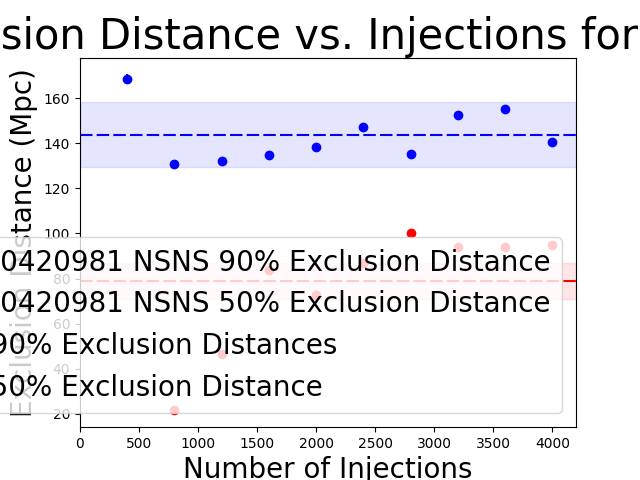
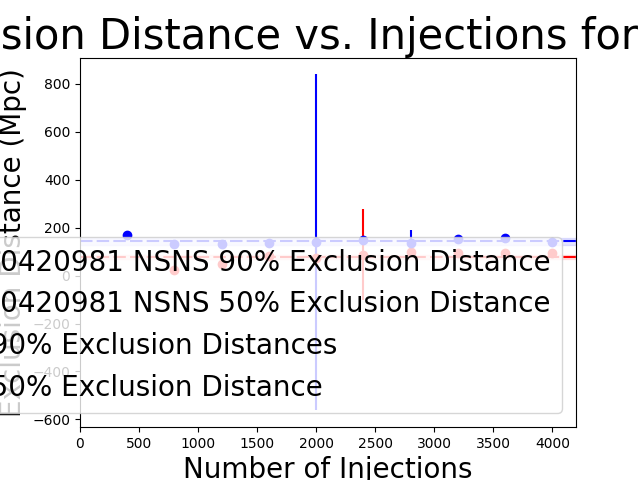
p/100 was rounding to 0 as an integer, needed to cast 100. as float

diff --git a/injectionPlot.py b/injectionPlot.py
@@ -95,7 +95,7 @@ nsbhPrecessInj = 12500
 
 ################ Plotting #################
 nsns_90_mean = [np.mean(inj100NSNS_90), np.mean(inj90NSNS_90), np.mean(inj80NSNS_90), np.mean(inj70NSNS_90), np.mean(inj60NSNS_90), np.mean(inj50NSNS_90), np.mean(inj40NSNS_90), np.mean(inj30NSNS_90), np.mean(inj20NSNS_90)]
-nsns_90_std = [11.063479404361873, 3.700565758284695, 3.6692927735743956, 13.8125677717, 188.954886992, 51.8242101276, 6.34528534050268, 5.865938840354687, 10.64974986085202, 5.152951845238655]
+nsns_90_std = [11.063479404361873, 3.700565758284695, 3.6692927735743956, 13.8125677717, 188.954886992, 51.8242101276, 6.34528534050268, 5.865938840354687, 10.64974986085202]
 nsnsNumInj_90 = [1*nsnsInj, 0.9*nsnsInj, 0.8*nsnsInj, 0.7*nsnsInj, 0.6*nsnsInj, 0.5*nsnsInj, 0.4*nsnsInj, 0.3*nsnsInj, 0.2*nsnsInj]
 nsns_50_mean = [np.mean(inj100NSNS_50), np.mean(inj90NSNS_50), np.mean(inj80NSNS_50), np.mean(inj70NSNS_50), np.mean(inj60NSNS_50), np.mean(inj50NSNS_50), np.mean(inj40NSNS_50), np.mean(inj30NSNS_50), np.mean(inj20NSNS_50), np.mean(inj10NSNS_50)]
 nsns_50_std = [6.738043973967401, 4.711676157772397, 5.301722593946216, 54.085612975, 16.0578825548, 700.81749628, 4.829679075135576, 4.176415388028511, 5.89478930396605, 3.341110625402934]

diff --git a/exDistErrors.py b/exDistErrors.py
@@ -50,7 +50,7 @@ def error(pData, data, p):
 	sigE = (float(data[2])+float(data[3]))/2
 
 	partialE = ((preD-d)*(100*preE-p))/(100*(preE-e)**2)
-	partialPreE = ((d-preD)*(e-p/100))/(preE-e)**2
+	partialPreE = ((d-preD)*(e-p/100.))/(preE-e)**2
 
 	sigma = math.sqrt(partialE**2*sigE**2 + partialPreE**2*sigPreE**2)
 	return sigma
